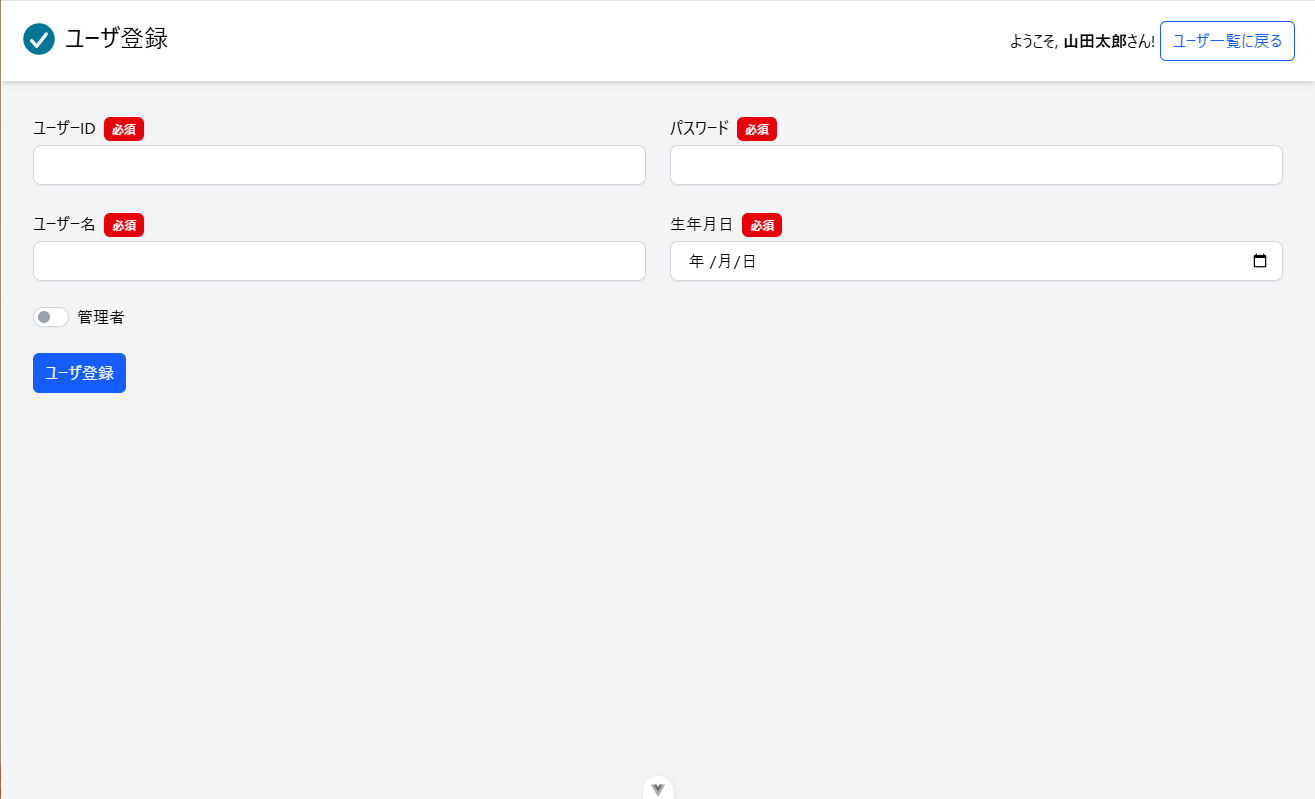
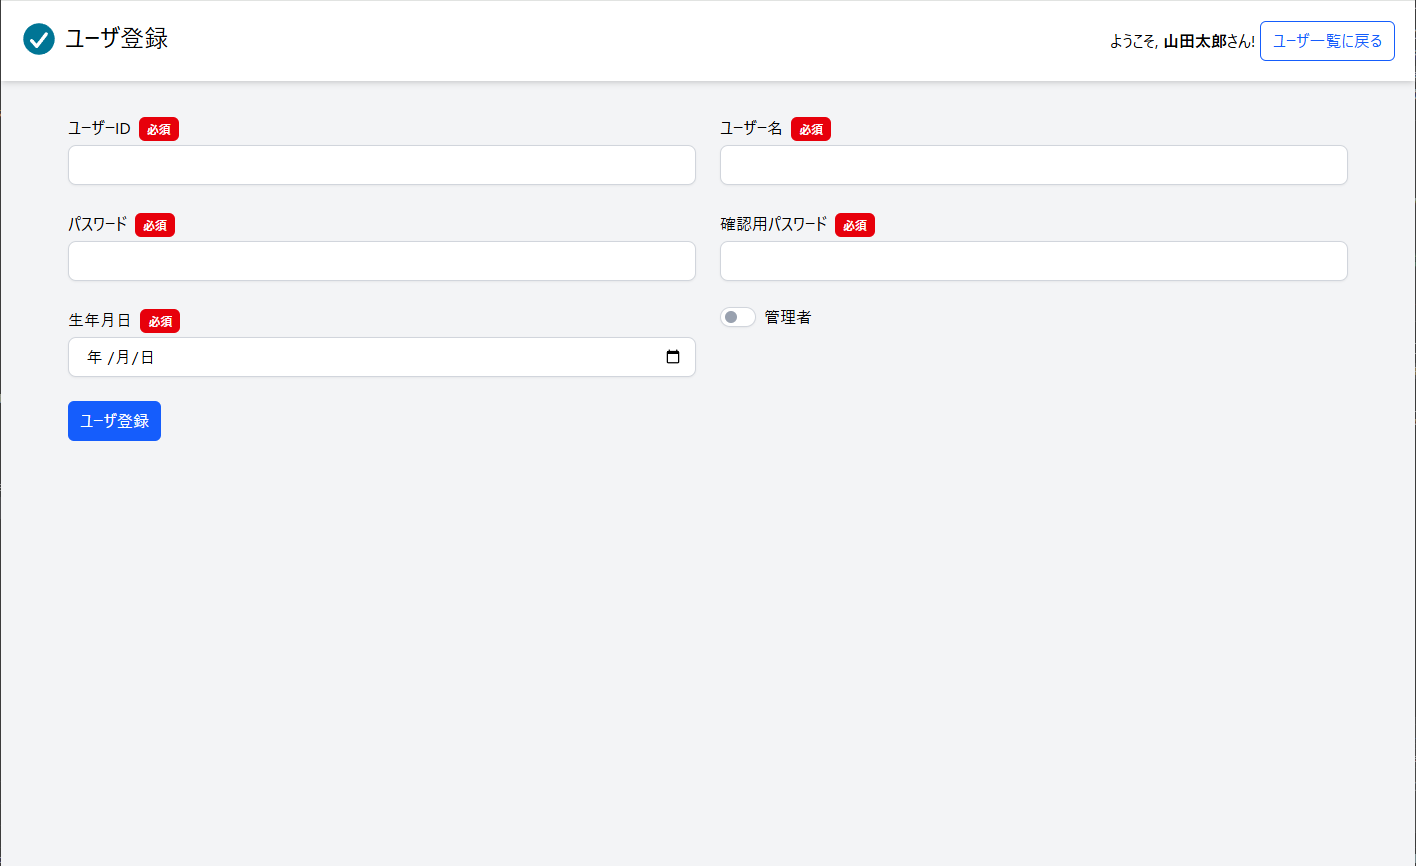
ユーザ登録画面とユーザ詳細画面を修正

Changed region(s): [[0.0, 0.0, 1.0, 1.0], [0.0, 0.2403, 0.9665, 0.5106], [0.0, 0.03, 0.1247, 0.0601]]

diff --git a/src/usecases/user/views/UserRegisterView.vue b/src/usecases/user/views/UserRegisterView.vue
@@ -1,6 +1,6 @@
 <script setup lang="ts">
 import { useRouter } from 'vue-router'
-import { computed, ref } from 'vue'
+import { ref } from 'vue'
 import HeaderArea from '@/components/layout/HeaderArea.vue'
 import MainContainer from '@/components/layout/MainContainer.vue'
 import FormArea from '@/components/form/FormArea.vue'
@@ -18,6 +18,8 @@ import { useForm } from 'vee-validate'
 import InformationModalDialog from '@/components/dialog/InformationModalDialog.vue'
 import type { User } from '@/usecases/common/models/user'
 import { UserService } from '@/usecases/user/services/userService'
+import { MessageManager } from '@/framework/messages'
+import { MessageIds } from '@/usecases/common/messages/applicationMessages'
 
 // ビジネスロジック
 const userService = UserService.getInstance()
@@ -35,6 +37,11 @@ const isCreateCompleteDialogOpen = ref(false)
 const schema = yup.object({
   userId: yup.string().label('ユーザID').required().email(),
   password: yup.string().label('パスワード').required(),
+  confirmPassword: yup
+    .string()
+    .label('確認用パスワード')
+    .required()
+    .oneOf([yup.ref('password')], MessageManager.getMessage(MessageIds.W_EX_2001)),
   userName: yup.string().label('ユーザ名').required(),
   birthday: yup.date().label('生年月日').required(),
   isAdmin: yup.boolean().label('管理者'),
@@ -47,6 +54,7 @@ const { values, errors, handleSubmit, isSubmitting, defineField } = useForm({
 
 const [userId] = defineField('userId')
 const [password] = defineField('password')
+const [confirmPassword] = defineField('confirmPassword')
 const [userName] = defineField('userName')
 const [birthday] = defineField('birthday')
 const [isAdmin] = defineField('isAdmin')
@@ -59,6 +67,7 @@ const onValidSubmit = async () => {
   const user: User = {
     id: values.userId,
     password: values.password,
+    confirmPassword: values.confirmPassword,
     name: values.userName,
     birthday: values.birthday,
     isAdmin: values.isAdmin,
@@ -97,6 +106,13 @@ const onClickCreateCompleteOKButtonClick = () => {
           v-model:value="userId"
           :error="errors.userId" />
       </InputItem>
+      <InputItem label="ユーザー名" labelFor="userName" :required="true">
+        <InputText
+          id="userName"
+          name="userName"
+          v-model:value="userName"
+          :error="errors.userName" />
+      </InputItem>
       <InputItem label="パスワード" labelFor="password" :required="true">
         <InputPassword
           id="password"
@@ -104,12 +120,12 @@ const onClickCreateCompleteOKButtonClick = () => {
           v-model:value="password"
           :error="errors.password" />
       </InputItem>
-      <InputItem label="ユーザー名" labelFor="userName" :required="true">
-        <InputText
-          id="userName"
-          name="userName"
-          v-model:value="userName"
-          :error="errors.userName" />
+      <InputItem label="確認用パスワード" labelFor="confirmPassword" :required="true">
+        <InputPassword
+          id="confirmPassword"
+          name="confirmPassword"
+          v-model:value="confirmPassword"
+          :error="errors.confirmPassword" />
       </InputItem>
       <InputItem label="生年月日" labelFor="birthday" :required="true">
         <InputDate
@@ -121,7 +137,6 @@ const onClickCreateCompleteOKButtonClick = () => {
       <InputItem>
         <ToggleSwitch v-model:enabled="isAdmin">管理者</ToggleSwitch>
       </InputItem>
-      <InputItem></InputItem>
       <ButtonArea>
         <SubmitButton :disabled="isSubmitting">ユーザ登録</SubmitButton>
       </ButtonArea>

diff --git a/src/usecases/user/views/UserDetailView.vue b/src/usecases/user/views/UserDetailView.vue
@@ -21,6 +21,8 @@ import { useForm } from 'vee-validate'
 import { formatDateWithHyphen } from '@/usecases/common/utils/dateUtils'
 import type { User } from '@/usecases/common/models/user'
 import { UserService } from '@/usecases/user/services/userService'
+import { MessageManager } from '@/framework/messages'
+import { MessageIds } from '@/usecases/common/messages/applicationMessages'
 
 interface Props {
   id: string
@@ -46,6 +48,11 @@ const isDeleteCompleteDialogOpen = ref(false)
 const schema = yup.object({
   userId: yup.string().label('ユーザID'),
   password: yup.string().label('パスワード').required(),
+  confirmPassword: yup
+    .string()
+    .label('確認用パスワード')
+    .required()
+    .oneOf([yup.ref('password')], MessageManager.getMessage(MessageIds.W_EX_2001)),
   userName: yup.string().label('ユーザ名').required(),
   birthday: yup.date().label('生年月日').required(),
   isAdmin: yup.boolean().label('管理者'),
@@ -58,6 +65,7 @@ const { errors, handleSubmit, isSubmitting, defineField } = useForm({
 
 const [userId] = defineField('userId')
 const [password] = defineField('password')
+const [confirmPassword] = defineField('confirmPassword')
 const [userName] = defineField('userName')
 const [birthday] = defineField('birthday')
 const [isAdmin] = defineField('isAdmin')
@@ -83,6 +91,7 @@ const onValidUpdateSubmit = async () => {
   const user: User = {
     id: userId.value,
     password: password.value,
+    confirmPassword: confirmPassword.value,
     name: userName.value,
     birthday: birthday.value,
     isAdmin: isAdmin.value,
@@ -140,6 +149,13 @@ const onDeleteCompleteOKButtonClick = () => {
       <InputItem label="ユーザーID" labelFor="userId">
         <InputText id="userId" name="userId" :readonly="true" v-model:value="userId" />
       </InputItem>
+      <InputItem label="ユーザ名" labelFor="userName" :required="true">
+        <InputText
+          id="userName"
+          name="userName"
+          v-model:value="userName"
+          :error="errors.userName" />
+      </InputItem>
       <InputItem label="パスワード" labelFor="password" :required="true">
         <InputPassword
           id="password"
@@ -148,12 +164,13 @@ const onDeleteCompleteOKButtonClick = () => {
           v-model:value="password"
           :error="errors.password" />
       </InputItem>
-      <InputItem label="ユーザ名" labelFor="userName" :required="true">
-        <InputText
-          id="userName"
-          name="userName"
-          v-model:value="userName"
-          :error="errors.userName" />
+      <InputItem label="パスワード" labelFor="confirmPassword" :required="true">
+        <InputPassword
+          id="confirmPassword"
+          name="confirmPassword"
+          :focus="true"
+          v-model:value="confirmPassword"
+          :error="errors.confirmPassword" />
       </InputItem>
       <InputItem label="生年月日" labelFor="birthday" :required="true">
         <InputDate
@@ -165,7 +182,6 @@ const onDeleteCompleteOKButtonClick = () => {
       <InputItem>
         <ToggleSwitch v-model:enabled="isAdmin">管理者</ToggleSwitch>
       </InputItem>
-      <InputItem></InputItem>
       <ButtonArea>
         <SubmitButton :disabled="isSubmitting" @click="onClickUpdateButton"
           >ユーザ更新</SubmitButton

diff --git a/src/usecases/common/messages/applicationMessages.ts b/src/usecases/common/messages/applicationMessages.ts
@@ -6,11 +6,13 @@ export const initMessages = () => {
 }
 
 // メッセージIDの定義
-export const MessageId = {
+export const MessageIds = {
+  W_EX_2001: 'w.ex.2001',
   E_EX_9001: 'e.ex.9001',
 } as const
 
 // メッセージの定義
 const applicationMessages = {
-  [MessageId.E_EX_9001]: 'システムエラーが発生しました。',
+  [MessageIds.W_EX_2001]: 'パスワードと確認用パスワードが一致しません。',
+  [MessageIds.E_EX_9001]: 'システムエラーが発生しました。',
 } as const

diff --git a/src/usecases/common/models/user.ts b/src/usecases/common/models/user.ts
@@ -20,9 +20,13 @@ export interface User {
    */
   isAdmin: boolean
 
-  //TODO: いずれ削除
   /**
    * パスワード
    */
-  password: string
+  password?: string
+
+  /**
+   * 確認用パスワード
+   */
+  confirmPassword?: string
 }
